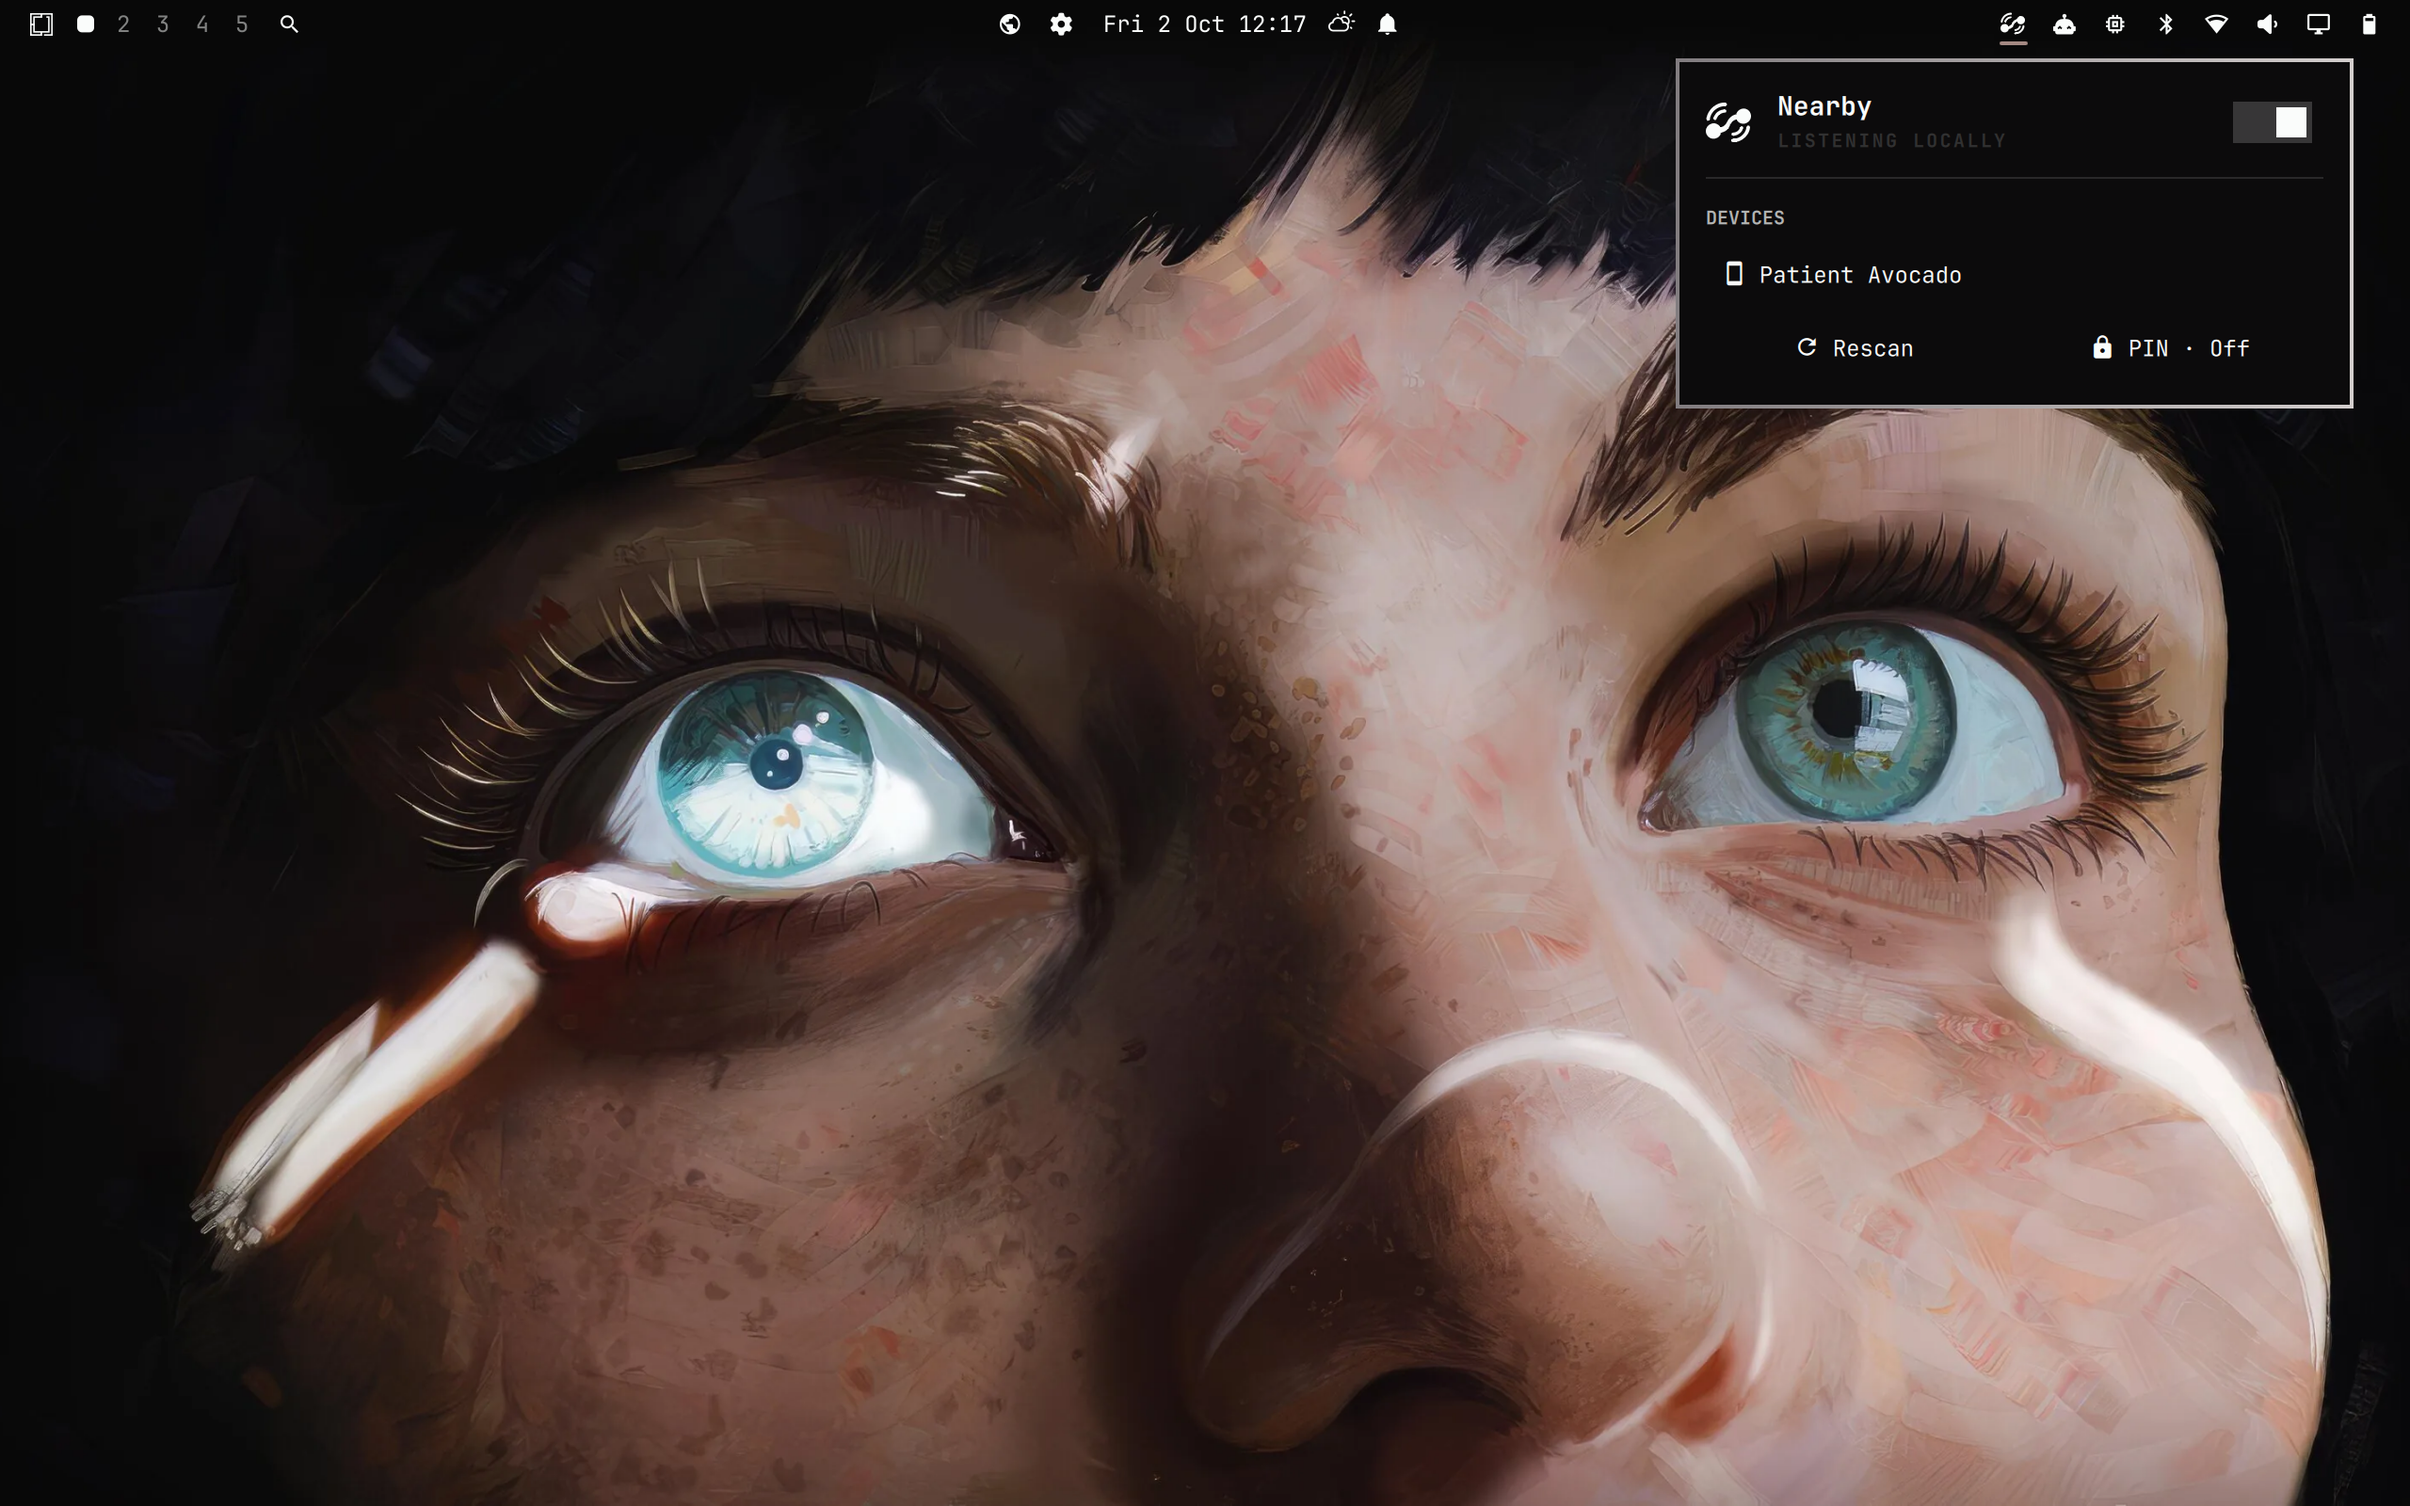
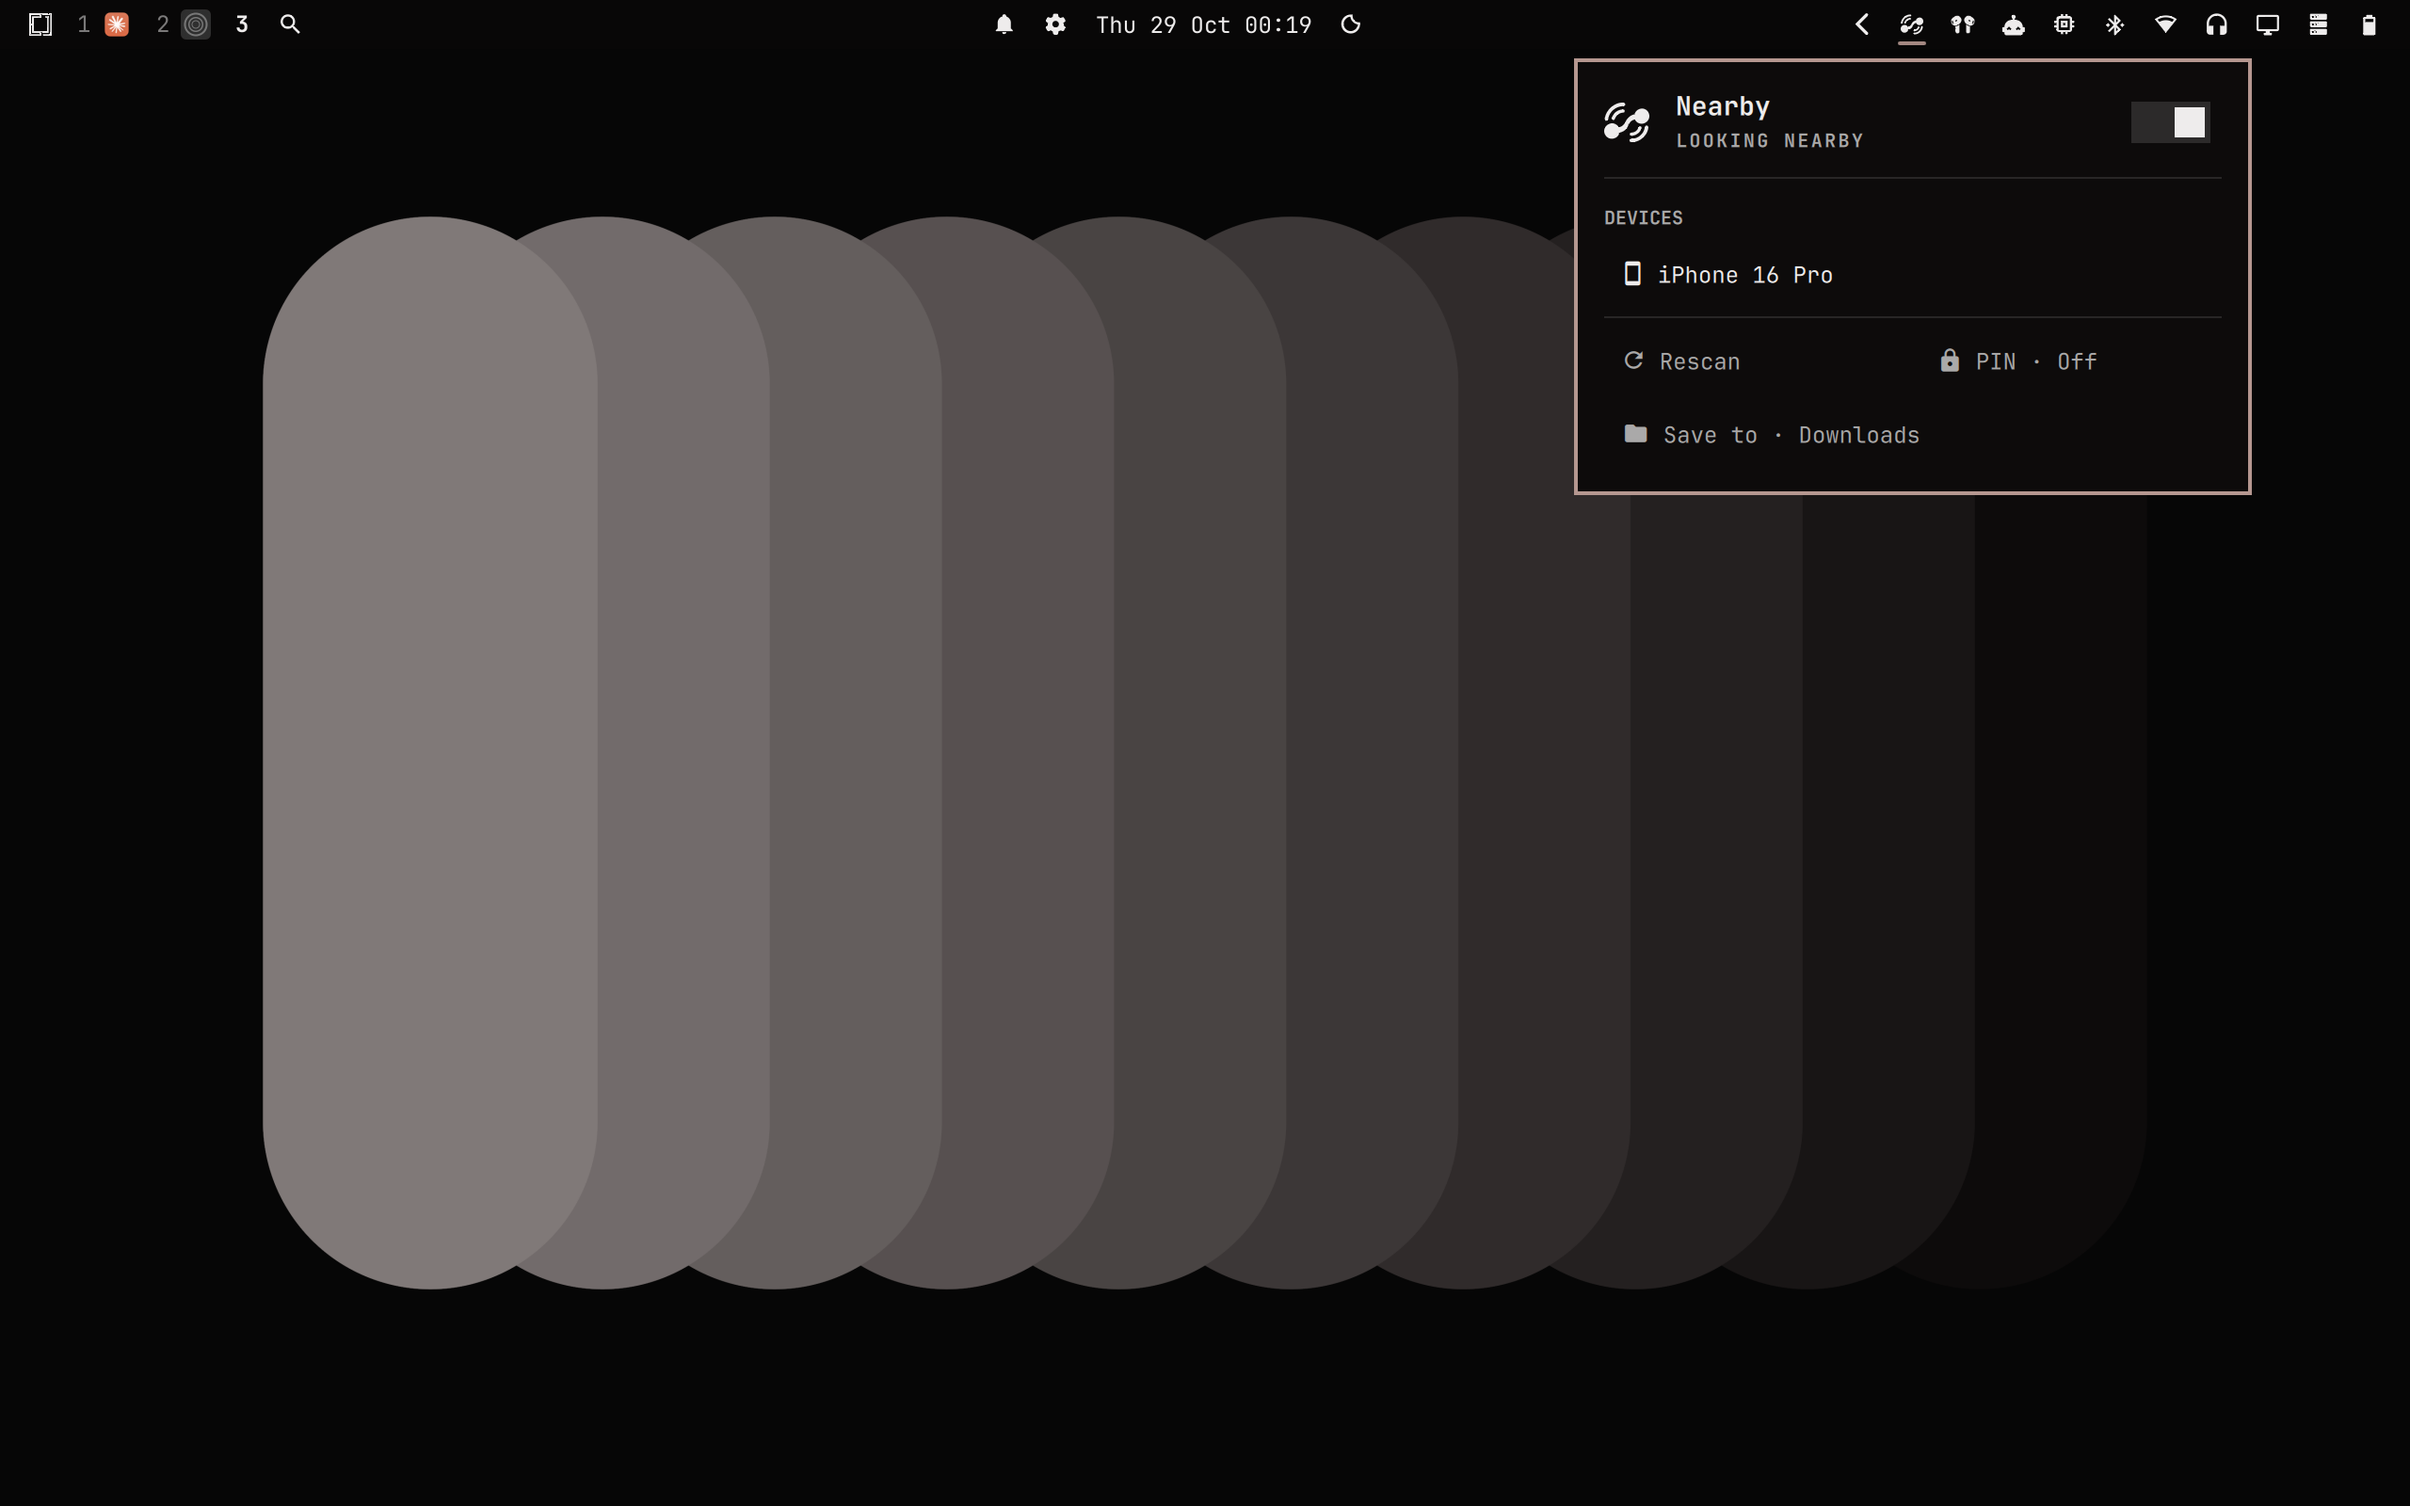
docs: refresh README screenshots
The README showed the panel from early October, before folder sending,
the Save to row and the receiver-actions layout. Replace both captures
and add two for the newest behaviour: a text message shown before it is
accepted, and a receive with its speed and time left.

The captures are full-screen on an empty workspace with a plain
wallpaper, about 95 KB each instead of 2.8 MB, and show a generic
"iPhone 16 Pro" peer rather than a personal device name.

diff --git a/README.md b/README.md
@@ -18,9 +18,17 @@ LocalSend application is not required on your Omarchy computer.
 
 ![Nearby discovering compatible devices on the local network](assets/screenshots/nearby-discovery.png)
 
-### Send files, folders or clipboard text
+### Send files, folders or the clipboard
 
-![Nearby actions for sending files or clipboard text to a selected device](assets/screenshots/nearby-send-actions.png)
+![Nearby actions for sending files, a folder or the clipboard to a selected device](assets/screenshots/nearby-send-actions.png)
+
+### See a message before accepting it
+
+![An incoming text message shown in Nearby's request before it is accepted](assets/screenshots/nearby-incoming-message.png)
+
+### Follow progress, speed and time left
+
+![Nearby receiving a video with its percentage, speed and time left](assets/screenshots/nearby-receiving.png)
 
 ## Requirements
 
